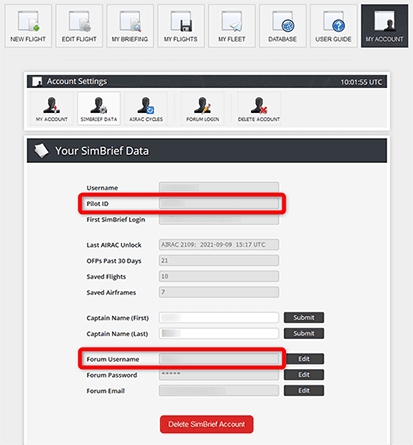
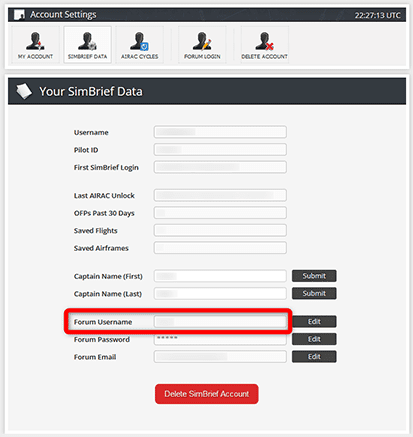
Quick fix for Simbrief Setup Username field - removed Pilot ID

diff --git a/docs/fbw-a32nx/feature-guides/flyPad/settings.md b/docs/fbw-a32nx/feature-guides/flyPad/settings.md
@@ -176,7 +176,7 @@ Settings for integrations with various data and information sources.
 
     - If enabled a message will be displayed to confirm sharing of the free text and position data to the public.
 
-        ![flypad-settings-atsu-aoc-telex-warning](../../assets/flypad/flypad-settings-atsu-aoc-telex-warning.png)
+        ![flypad-settings-atsu-aoc-telex-warning](../../assets/flypad/flypad-settings-atsu-aoc-telex-warning.png){loading=lazy}
 
 - Simbrief Username/Pilot ID
     - see next chapter
@@ -185,18 +185,18 @@ Settings for integrations with various data and information sources.
 
 Before you can use the A32NX simBrief Integration you need to provide your simBrief account details.
 
-- Simbrief Username/Pilot ID:
-    - Enter your simBrief username or Pilot ID.
+- Simbrief Username:
+    - Enter your simBrief username.
 
-        ![simBrief Account field](../../assets/flypad/simbrief-account-field.png "simBrief Account field")
+        ![simBrief Account field](../../assets/flypad/simbrief-account-field.png "simBrief Account field"){loading=lazy}
 
     - If you entered a wrong username or Pilot ID a red error message will be displayed.
 
-        ![simBrief Account Field Error](../../assets/flypad/simbrief-account-field-error.png "simBrief Account Field Error")
+        ![simBrief Account Field Error](../../assets/flypad/simbrief-account-field-error.png "simBrief Account Field Error"){loading=lazy}
 
-To get your simBrief username or Pilot ID you can go to your simBrief Account settings and open "Simbrief Data".
+To get your simBrief username you can go to your simBrief Account settings and open "Simbrief Data".
 
-![simBrief Account Data](../../assets/flypad/simbrief-account-data.png "simBrief Account Data")
+![simBrief Account Data](../../assets/flypad/simbrief-account-data.png "simBrief Account Data"){loading=lazy}
 
 !!! attention ""
     If you use the Stable version please omit any space characters in your username. If for example your username is "Mr Pilot" the please use "MrPilot" as username.
